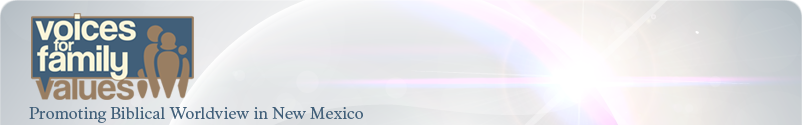
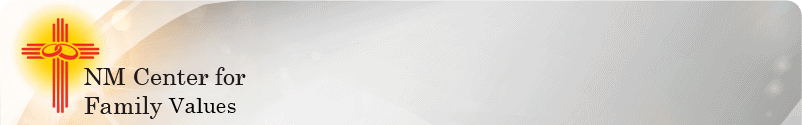
Minor Updates Pre-Upload
- Updated address and phone number
- Added message

diff --git a/html/message.html b/html/message.html
@@ -1,10 +1,105 @@
+<style>
+.show_more {
+	font-family: Arial, Helvetica, sans-serif;
+	text-decoration: none;
+	color: #6F6F6F;
+	cursor: pointer;
+}
+
+.show_more:hover {
+	color: #9E9E9E;
+}
+</style>
+
 <div class="font" style="padding:10px">
 <p style="font-size:26px; font-weight:bold; text-align:center; margin-top: 0px;">Message from the Executive Director</p>
-<img src="./images/people/Leslie.jpg" alt="Leslie Cumiford" style="float:left; margin-top: 6px; margin-right:10px; margin-bottom: 10px"/>
+<img src="./images/people/Leslie.jpg" alt="Leslie Cumiford" style="float:left; margin-top: 6px; margin-right:10px; margin-bottom: 10px; width: 160px;"/>
 
-MESSAGE...<p />
+I am thrilled to take the helm of the NM Center for Family Values, formerly known as Voices 
+for Family Values, Inc. Our Board of Directors has launched a new level of operations 
+to meet the challenges of the next decade, and I commend them for it. In part, that 
+direction led to our new name, the moving of our headquarters from Farmington to 
+Albuquerque, and the planning of a whole new level of involvement for churches, civic 
+groups and individuals. 
 
-Leslie Cumiford<p />
+<div class="more" id="Message">
+<p />
+Chris Donnelly will remain an integral part of our organization. I would like to thank him 
+for his tireless efforts on behalf of life, marriage, the family and religious freedom 
+over the last few years. What I appreciate most about Chris, as well as our Board, is the 
+heart that they bring to the issues. Chris and our Board members are involved because they 
+are firmly committed to serving the Lord by restoring our society to a culture that values 
+the institution of marriage as God set it up, the family as the first and best teacher 
+about life and faith, and the understanding that every life is a gift from God with 
+intrinsic value. They are keenly aware that we must uphold these values, along with the 
+freedom to express them, if we are to remain a cogent and thriving society which is the 
+envy of the entire world. We have seen plenty of examples of society unhinged throughout 
+the ages, and we are committed to doing everything that we can to redirect the path of 
+our society to a higher calling.<p />
 
-Executive Director<p />
+In light of the recent decision by World Vision to support same-sex couples (which was 
+quickly retracted), I want assure you that at the heart of our organization remains 
+the staunch commitment to serve New Mexico by supporting life, traditional marriage, 
+the family unit and religious freedom. We do so by educating the public and networking 
+with other organizations regarding the advantages of supporting life, traditional 
+marriage, family and religious freedom and the dangers of veering from this course. We 
+also keep New Mexicans informed on a timely basis regarding issues at all levels – 
+municipal, state and federal – that impact family values and religious freedom. To better 
+accomplish these goals, we need an army of volunteers networked throughout the state. 
+Over the next few weeks, we will be developing our website and social media outreach 
+to render it easier for you to get involved. I invite you to contact us to find out 
+more about the ways in which you can make a difference. We will give you the training 
+and know-how that you need to succeed, and you will be joining a community of like-minded 
+champions of family values.<p />
+
+Your input and prayers are welcome and valued as we ramp up to the challenges ahead. 
+After all, a handful of us, no matter how talented, cannot accomplish the daunting 
+task before us. However, as a community, through God’s wisdom and direction and by 
+His power, we know this transformation is possible. I remind you of Rome. Christians 
+were in the minority at the time of Christ, a small band of believers following the 
+Messiah. Within a handful of years, Christians went from those likely to be persecuted 
+or relegated to the lower rungs of society to those likely to be preferred for high 
+government positions. Roman society turned from rampant sexual practices, abortion 
+for convenience and sex selection, and slavery to intact family units with adults 
+who valued life and a society that rejected slavery. God and His people have triumphed 
+in this way time and time again, and we have every reason to expect that He will do 
+it again, right here in New Mexico.<p />
+
+As I prayed about this opportunity, the Scripture that most spoke to me was from Isaiah 
+57. The first half of this chapter describes a situation in which the righteous perish, 
+various sexual proclivities abound while participants sneer and mock, children are 
+sacrificed and idols are worshipped. But then (verse 13) the people begin to take 
+refuge in the Lord, and it is said (verse 14) “Build up, build up, prepare 
+the road! Remove the obstacles out of the way of my people.” The Lord then 
+promises to heal them, guide them and restore comfort to them.<p />
+
+As we build the road and remove the obstacles to restore the Land of Enchantment, we 
+invite you to join us, living a life worthy of the Lord’s pleasure when he says, 
+"Well done, good and faithful servant."
 </div>
+[<a class="show_more" id="Message">more</a>]
+
+<p />
+Leslie Cumiford<p />
+Executive Director<br />
+(505) 261-9566<br />
+leslie@nmcfv.com<br />
+</div>
+
+<script type="text/javascript">
+$(document).ready(function() {
+	$(".more").hide();
+	
+	$(".show_more").click(function() {
+		var profile = $(this).attr('id');
+		if ($("#"+profile+".more").is(":visible")) {
+			$("#"+profile+".more").hide();
+			$(this).text("more");
+		}
+		else {
+			$("#"+profile+".more").show();
+			$(this).text("less");
+		}
+	});
+});	
+</script>

diff --git a/html/contact.html b/html/contact.html
@@ -1,8 +1,9 @@
 <div class="font" style="padding:10px; text-align:center;">
 <p style="font-size:26px; font-weight:bold; margin-top: 0px;">Contact Us</p>
 NM Center for Family Values<br />
-ADDRESS<br />
-PHONE NUMBER<p />
+P.O. Box 16042<br />
+Albuquerque, NM 87191<br />
+(505) 291-9566<p />
 
 info@nmcfv.com
 </div>

diff --git a/html/rights.html b/html/rights.html
@@ -17,8 +17,9 @@
 
 <div class="contact">
 NM Center for Family Values<br />
-ADDRESS<br />
-PHONE NUMBER<br />
+P.O. Box 16042<br />
+Albuquerque, NM 87191<br />
+(505) 291-9566<br />
 email: info@nmcfv.com<br /><br />
 </div>
 <div class="rights">
